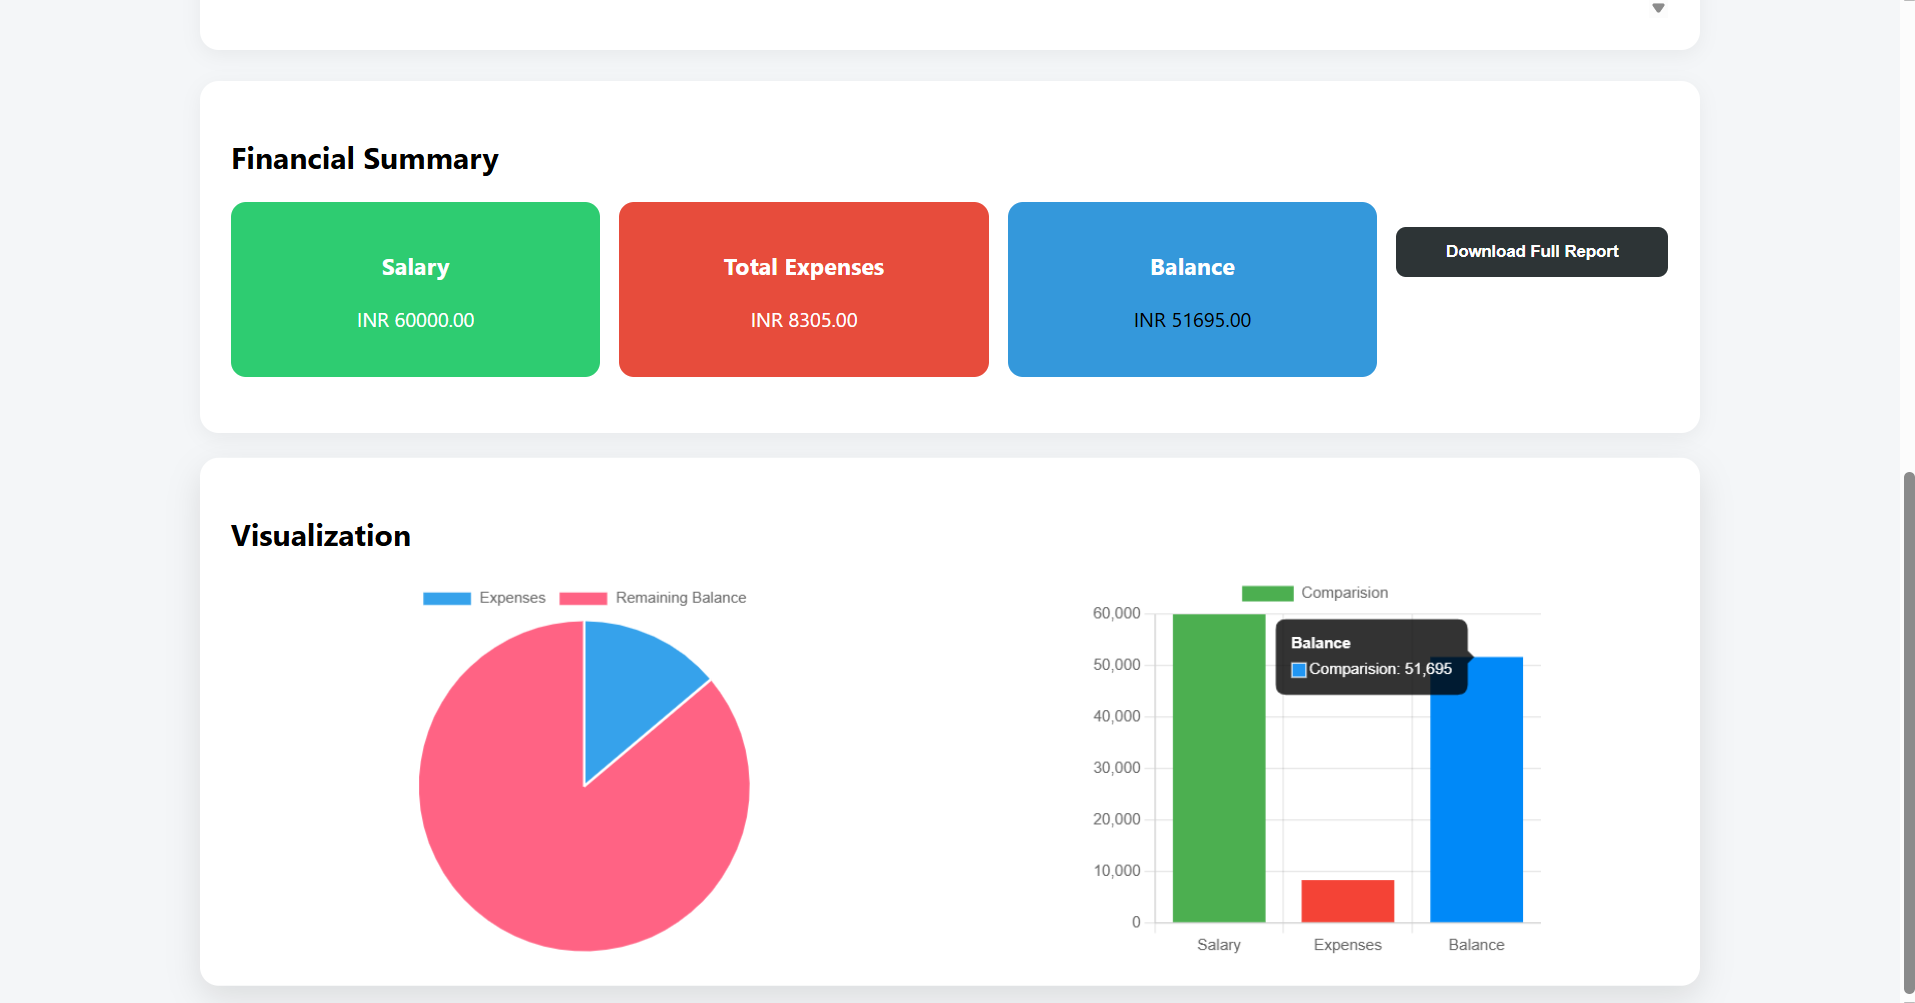
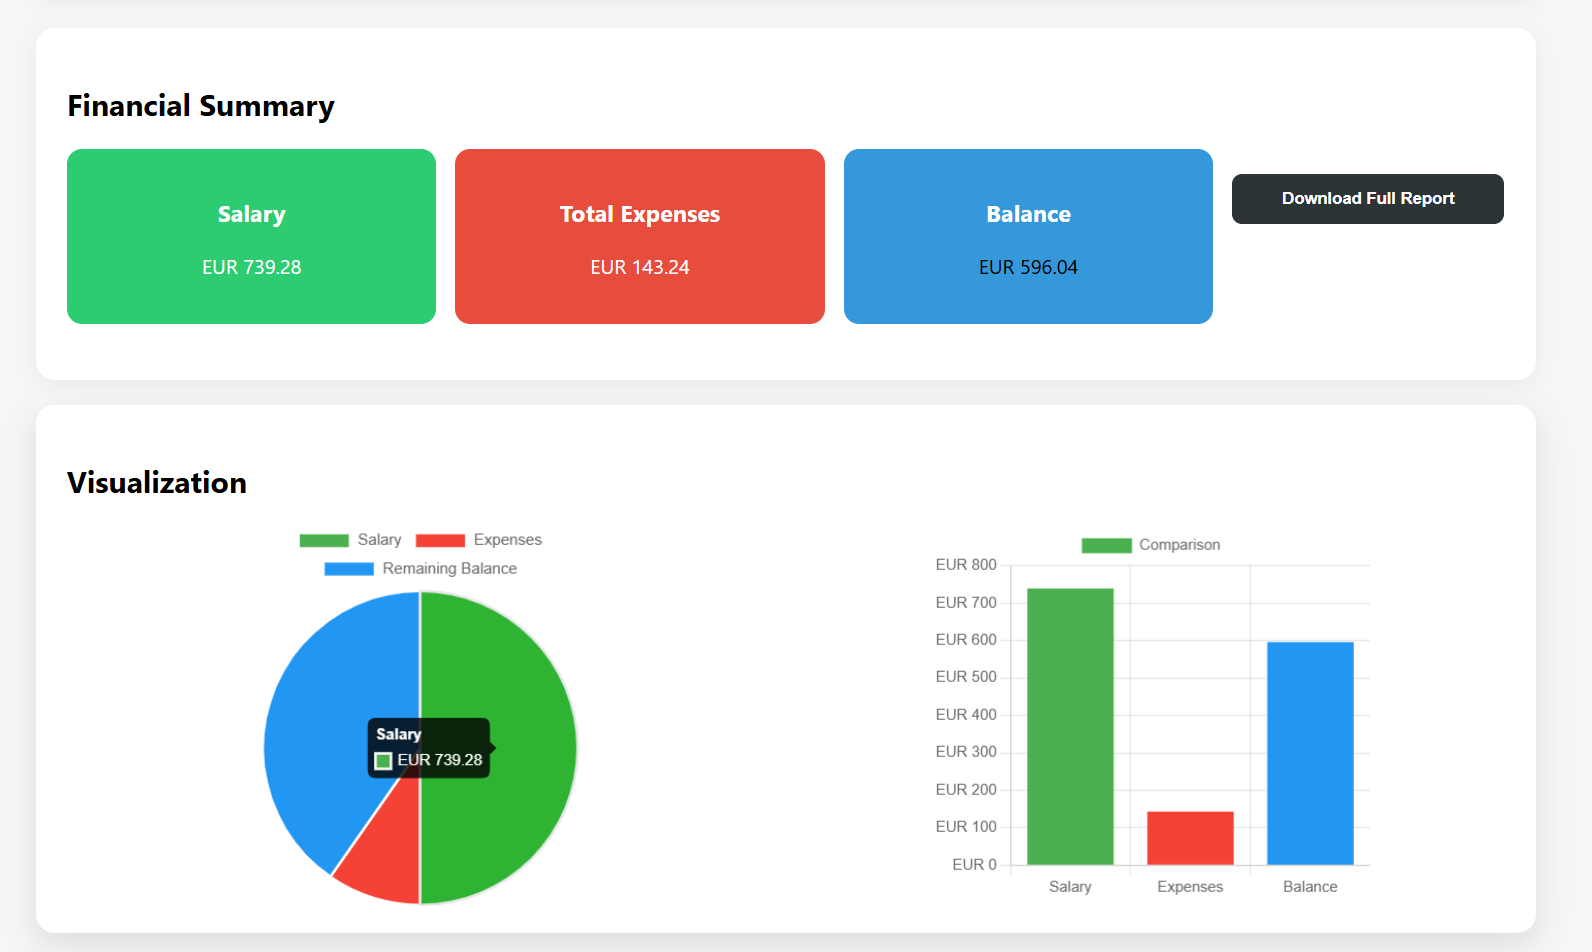
modified visualization

diff --git a/script.js b/script.js
@@ -164,8 +164,10 @@ window.onload = function () {
 
 //charts
 function renderChart() {
+  const convertedSalary = convert(salary);
   const totalExpenses = convert(getTotalExpenses());
   const balance = convert(getBalance());
+
   
   const canvas = document.getElementById("myChart");
   if (!canvas) return;
@@ -177,10 +179,11 @@ function renderChart() {
   chart = new Chart(ctx, {
     type: "pie",
     data: {
-      labels: ["Expenses", "Remaining Balance"],
+      labels: ["Salary","Expenses", "Remaining Balance"],
       datasets: [
         {
-          data: [totalExpenses, balance],
+          data: [convertedSalary , totalExpenses, balance],
+          backgroundColor: ["#4CAF50", "#f44336", "#2196F3"],
         },
       ],
     },
@@ -188,9 +191,9 @@ function renderChart() {
       responsive: true,
       maintainAspectRatio: false,
       interaction:{
-        mode : 'nearest',
-        intersect: true,
-        axis:'xy'
+        mode : 'index',
+        intersect: false,
+        //axis : 'xy'
       },
       plugins: {
         legend: { position: "top" },
